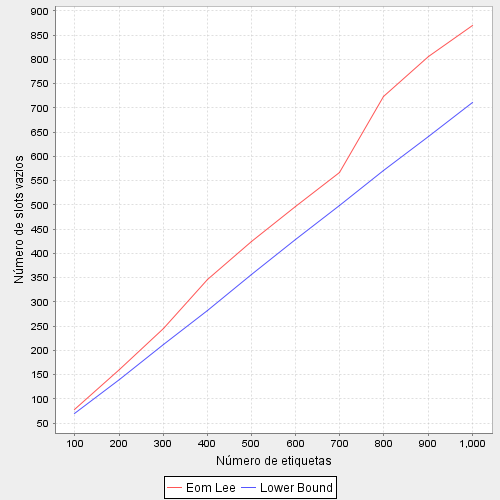
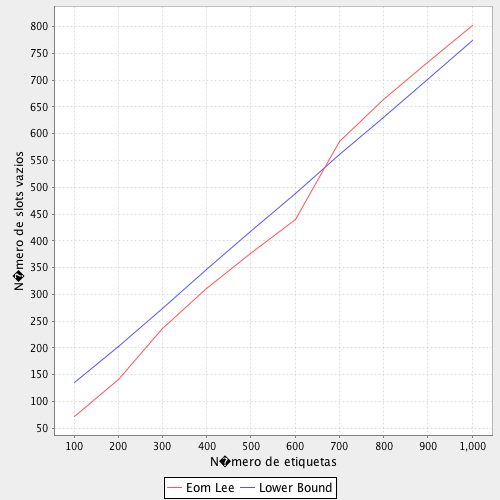
Alteracoes no eom lee

diff --git a/src/dfsa/EomLee.java b/src/dfsa/EomLee.java
@@ -3,7 +3,11 @@ package dfsa;
 public class EomLee implements Estimator{
 	
 	private double beta = 0;
+	private double last_beta = 0;
 	private double gama = 2;
+	private double last_gama = 2;
+	
+	private double threshold = 0.001;
 	
 	double beta_ = 0;
 	double ebeta = 0;
@@ -11,17 +15,22 @@ public class EomLee implements Estimator{
 	public int estimate(int lastFrameSize, int successSlots, int collisionSlots){
 		
 		if(lastFrameSize == 0){
-			return 1;
+			return 64;
+		}else{
+			do{
+
+				beta = (double) lastFrameSize / ( (last_gama * collisionSlots) + successSlots );
+				beta_ = (double) 1 / beta;
+				ebeta = 1 / Math.pow(Math.E, beta_);
+				gama = (double) (1 - ebeta) / (beta * (1 - ((1 + beta_)*ebeta)) );
+				
+				last_beta = beta;
+				last_gama = gama;
+				
+			}while( (last_gama - gama) >= threshold );
+
+			return (int) gama * collisionSlots;
 		}
-		
-		beta = (double) lastFrameSize / ( (gama * collisionSlots) + successSlots );
-		
-		beta_ = (double) 1 / beta;
-		ebeta = Math.pow(Math.E, 0-beta_);
-		
-		gama = (double) (1 - ebeta) / (beta * (1 - ((1 + beta_)*ebeta)) );
-		
-		return (int) gama * collisionSlots;
 	}
 	
 	public int estimateTags(int lastFrameSize, int successSlots, int collisionSlots){

diff --git a/src/dfsa/LowerBound.java b/src/dfsa/LowerBound.java
@@ -5,7 +5,7 @@ public class LowerBound implements Estimator{
 	public int estimate(int lastFrameSize, int successSlots, int collisionSlots){
 		int response;
 		if(collisionSlots == 0){
-			response = 1;
+			response = 64;
 		}else{
 			response = 2*collisionSlots;
 		}
